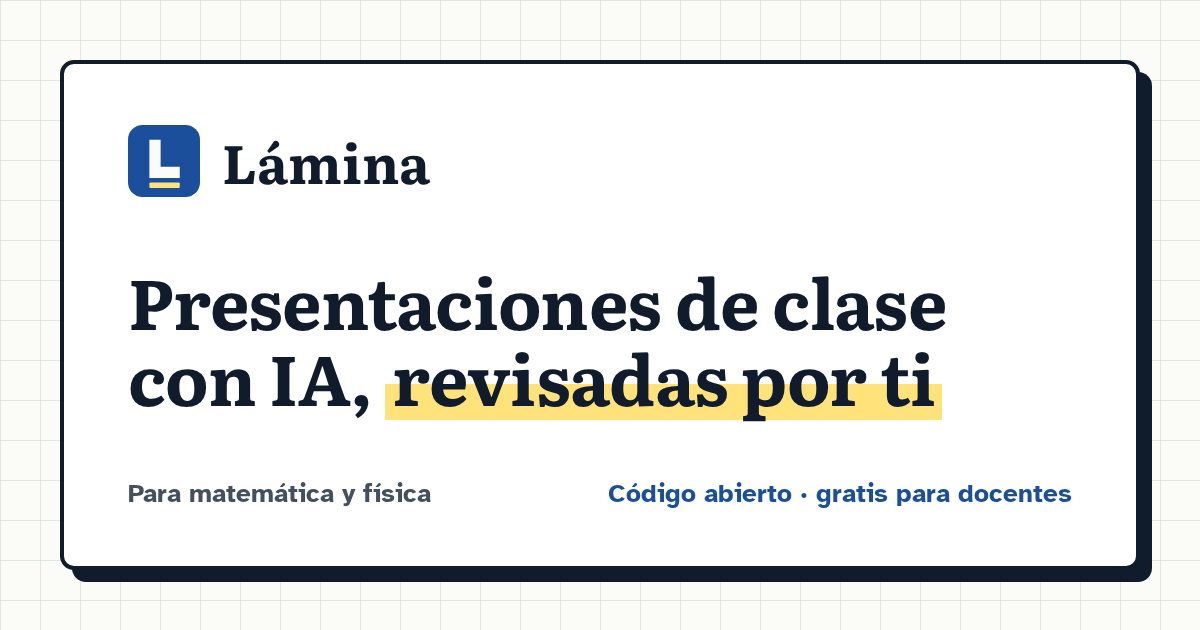
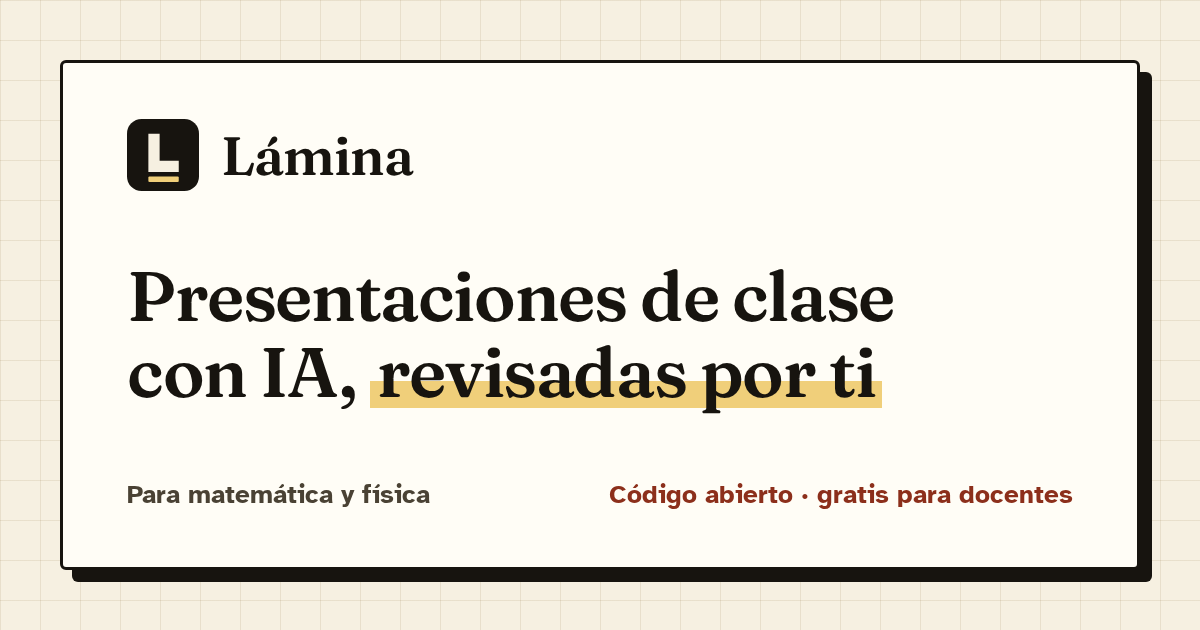
fix(web): assets con la paleta real de la landing (papel, tinta, óxido, resaltador) y Fraunces

diff --git a/apps/web/src/app/manifest.ts b/apps/web/src/app/manifest.ts
@@ -8,8 +8,8 @@ export default function manifest(): MetadataRoute.Manifest {
     lang: "es",
     start_url: "/dashboard",
     display: "standalone",
-    background_color: "#fbfcf8",
-    theme_color: "#1b4f9c",
+    background_color: "#f6f0e1",
+    theme_color: "#17140f",
     icons: [
       { src: "/icon-192.png", sizes: "192x192", type: "image/png" },
       { src: "/icon-512.png", sizes: "512x512", type: "image/png" },
